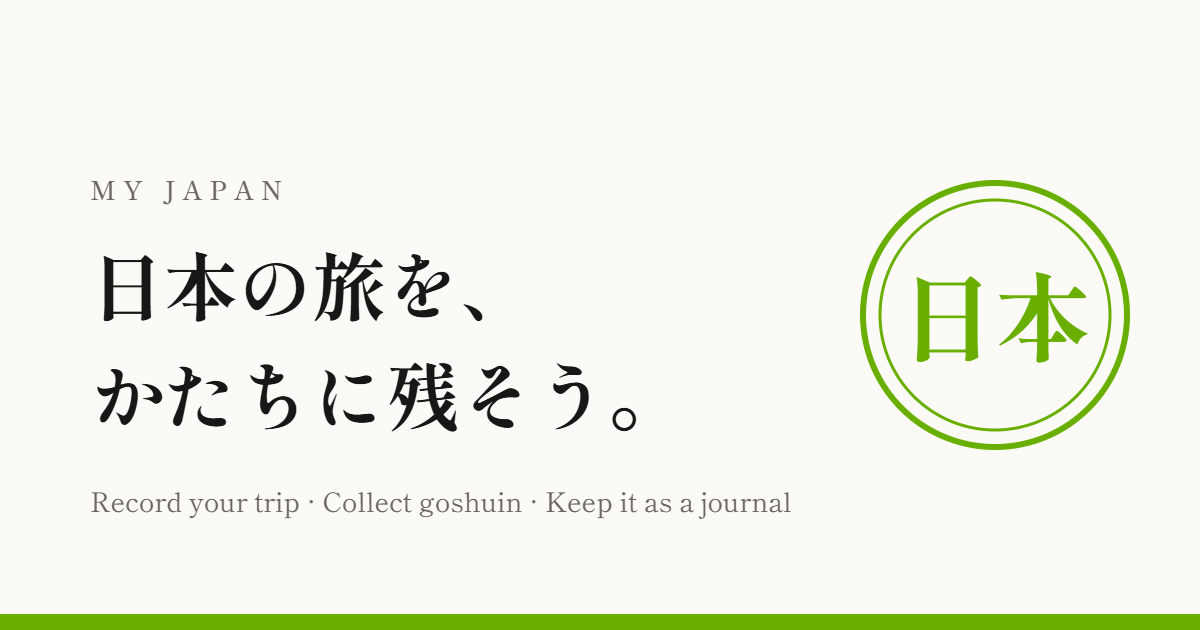
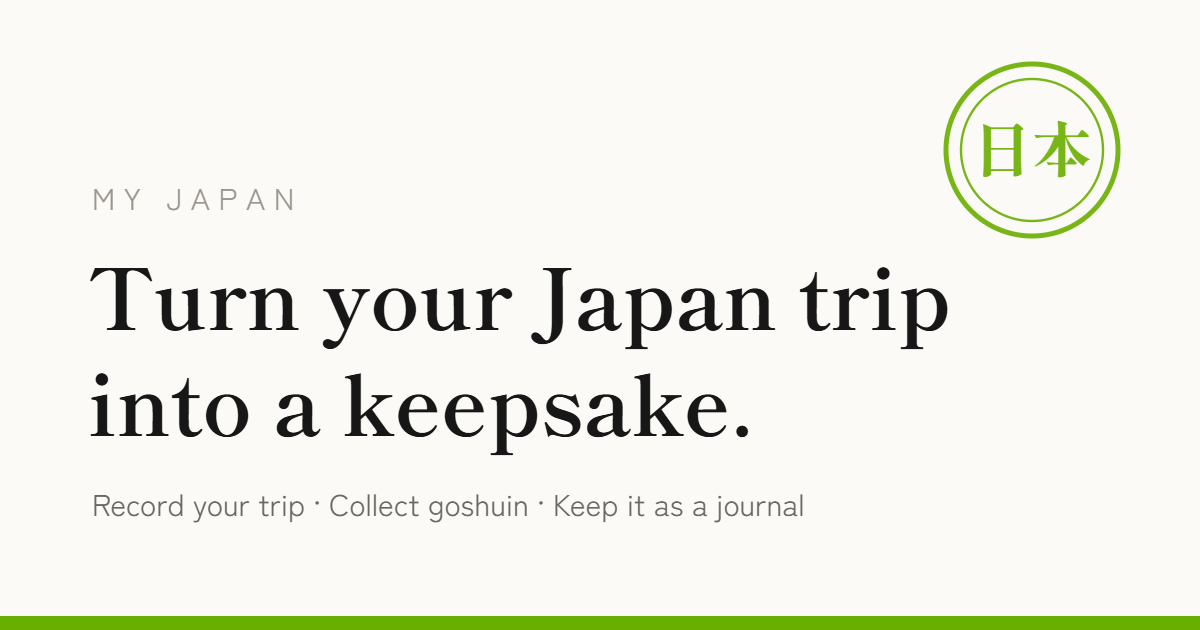
LPに浮かぶスマホ、斜めの区切りを強調、OG画像を英語化、タブバーの妥協策
■ フッター（タブバー）被り
--vh の実測方式は維持しつつ、ユーザー提案の妥協案を実行:
タブバーのラベル（文字）を全て外し、アイコンだけをバーの上半分に置いた。
下側は26px+安全領域のただの余白。スマホChromeがツールバーを重ねて
下端20px前後を隠しても、そこには何も無いので表示が壊れない。

■ LP
・「FROM TRAVELLERS IN JAPAN」の見出し横に、宙に浮いたスマホを追加。
  斜め上向き（rotateX 11°/rotateY -16°/rotateZ 5°）で、画面には
  12県が塗られた日本地図と「12 / 47」。浮遊はtransformのみで動かす
  （アニメーションが止まっても表示は壊れない）。
  LPは常に明るい紙の上なので、地図の色はテーマに寄らず固定
  （JapanSvgMap に emptyFill プロパティを追加）。
  実測: 47パス描画、塗り12県 #69AF00 / 未訪問 #EDEBE3。
・御朱印帳↔ジャーナルの斜めの区切りを 6vw → clamp(34px,8vw,84px) に。
  スマホでも斜めだと分かる角度になった（実測 -34px/クリップ34px）。

■ OGP
リンクを貼ったときに出る画像(og.png)を英語に描き直した。
見出し「Turn your Japan trip into a keepsake.」、右上に日本の印。
アプリのフォント(Shippori Mincho/Zen Kaku Gothic)で描画。

diff --git a/components/Landing.web.tsx b/components/Landing.web.tsx
@@ -21,7 +21,7 @@ import { useI18n } from '@/lib/i18n';
 
 const CSS = `
 /* シェルが 100dvh 固定なので、LP自身をスクロール領域にする */
-.lp { --ink:#14120F; --paper:#FBFAF7; --matcha:#69AF00; --shu:#C4432B; --gold:#C9A227; --slant:6vw;
+.lp { --ink:#14120F; --paper:#FBFAF7; --matcha:#69AF00; --shu:#C4432B; --gold:#C9A227; --slant:clamp(34px,8vw,84px);
   height:var(--vh,100svh); overflow-y:auto; overflow-x:hidden; -webkit-overflow-scrolling:touch;
   background:var(--paper); color:var(--ink);
   font-family:'ZenKakuGothicNew_400Regular','Zen Kaku Gothic New',system-ui,sans-serif;
@@ -119,6 +119,26 @@ const CSS = `
 /* 説明が続くので、このセクションだけ下の余白を詰める */
 .lp section.tight { padding-bottom:clamp(16px,2.4vw,32px); }
 .lp section.tight .feats { margin-top:28px; }
+
+/* --- 宙に浮くスマホ --- */
+.lp .mqHead { display:flex; align-items:center; justify-content:space-between; gap:26px; flex-wrap:wrap; }
+.lp .phoneFloat { perspective:1100px; margin:6px auto 0; }
+/* 斜めに上を向いた板。浮遊は transform だけで動かす（止まっても壊れない） */
+.lp .phone { width:216px; padding:20px 14px 16px; border-radius:30px; background:#101010;
+  box-shadow:0 34px 60px rgba(0,0,0,.30), 0 8px 18px rgba(0,0,0,.18);
+  transform:rotateX(11deg) rotateY(-16deg) rotateZ(5deg);
+  animation:phoneBob 5.2s ease-in-out infinite alternate; position:relative; }
+.lp .phone::before { content:''; position:absolute; inset:6px; border-radius:24px;
+  background:#FBFAF7; z-index:0; }
+.lp .phone > * { position:relative; z-index:1; }
+.lp .phoneNotch { width:74px; height:8px; border-radius:5px; background:#101010; margin:0 auto 12px; }
+.lp .phoneBrand { text-align:center; font-size:9px; letter-spacing:4px; color:#9B978F; margin-bottom:6px; }
+.lp .phoneMap { display:flex; justify-content:center; }
+.lp .phoneCount { text-align:center; font-size:11px; color:#6B6862; margin-top:8px; }
+.lp .phoneCount b { font-size:16px; color:#69AF00; }
+@keyframes phoneBob { from { transform:rotateX(11deg) rotateY(-16deg) rotateZ(5deg) translateY(0) }
+  to { transform:rotateX(9deg) rotateY(-13deg) rotateZ(4deg) translateY(-14px) } }
+@media (max-width:720px) { .lp .mqHead { justify-content:center; text-align:center; } }
 
 /* --- 無限マーキー --- */
 .lp .marquee { display:flex; gap:14px; width:max-content; }
@@ -238,6 +258,9 @@ export function Landing() {
   const { t } = useI18n();
   const rootRef = useRef<HTMLDivElement | null>(null);
   const heroRef = useRef<HTMLDivElement | null>(null);
+
+  // スマホのモックで塗っておく県（東京から九州へ下る旅の跡に見える12県）
+  const PHONE_VISITED = [1, 13, 14, 22, 23, 26, 27, 28, 34, 40, 43, 46];
 
   // 写真は毎回同じ並びにしたいので、決め打ちの順で切り出す
   const photos = LP_PHOTOS;
@@ -412,9 +435,24 @@ export function Landing() {
       {/* ================= 写真の流れ ================= */}
       <section style={{ paddingTop: 0, paddingBottom: 0, marginTop: -1 }}>
         <div style={{ padding: '64px 0 8px' }}>
-          <div className="wrap rv" style={{ padding: '0 22px 26px' }}>
-            <div className="eyebrow">FROM TRAVELLERS IN JAPAN</div>
-            <h2 className="mincho">{t('lp.marqueeTitle')}</h2>
+          <div className="wrap rv mqHead" style={{ padding: '0 22px 26px' }}>
+            <div>
+              <div className="eyebrow">FROM TRAVELLERS IN JAPAN</div>
+              <h2 className="mincho">{t('lp.marqueeTitle')}</h2>
+            </div>
+            {/* ぱっと見で「日本地図を塗っていくアプリ」だと分かるように、
+                宙に浮いたスマホの画面に塗りかけの日本地図を見せる */}
+            <div className="phoneFloat" aria-hidden>
+              <div className="phone">
+                <div className="phoneNotch" />
+                <div className="phoneBrand">MY JAPAN</div>
+                <div className="phoneMap">
+                  {/* LPは常に明るい紙の上なので、テーマに寄らず明所の色で固定する */}
+                  <JapanSvgMap visited={PHONE_VISITED} width={168} okinawaInset tint="#69AF00" emptyFill="#EDEBE3" />
+                </div>
+                <div className="phoneCount"><b>12</b> / 47</div>
+              </div>
+            </div>
           </div>
           <div className="mRow a"><div className="marquee">{[...rowA, ...rowA].map((p, i) => <Card p={p} i={i} key={i} />)}</div></div>
           <div className="mRow b"><div className="marquee">{[...rowB, ...rowB].map((p, i) => <Card p={p} i={i} key={i} />)}</div></div>
@@ -575,7 +613,7 @@ export function Landing() {
             <div className="eyebrow">{t('lp.quizEyebrow')}</div>
             <h3 className="mincho">{t('lp.quizTitle')}</h3>
             <div className="quizMap">
-              <JapanSvgMap visited={quizSel} onToggle={toggleQuiz} width={quizMapW()} okinawaInset />
+              <JapanSvgMap visited={quizSel} onToggle={toggleQuiz} width={quizMapW()} okinawaInset tint="#69AF00" emptyFill="#EDEBE3" />
             </div>
             <p className="quizCount">{t('lp.quizCount', { n: quizSel.size })}</p>
             <button className="cta" style={{ marginTop: 18 }} onClick={seeGoshuin}>{t('lp.quizCta')} →</button>

diff --git a/components/JapanSvgMap.tsx b/components/JapanSvgMap.tsx
@@ -46,6 +46,7 @@ export function JapanSvgMap({
   width = 320,
   tint,
   onToggle,
+  emptyFill,
   hideOkinawa = false,
   okinawaInset = false,
   intensity,
@@ -56,6 +57,8 @@ export function JapanSvgMap({
   tint?: string;
   /** 指定すると各県がタップ可能になり、prefecture_code を返す */
   onToggle?: (prefectureCode: number) => void;
+  /** 「まだ行っていない県」の塗り。常に明るい地に置くLPなどで、テーマに寄らず固定したいとき */
+  emptyFill?: string;
   /** 表示地図から沖縄を除外する */
   hideOkinawa?: boolean;
   /** 沖縄を千葉の下のインセットとして表示する（小さくOKINAWAラベルつき） */
@@ -79,11 +82,11 @@ export function JapanSvgMap({
           const isOki = slug === 'okinawa';
           if (hideOkinawa && isOki && !okinawaInset) return null;
           const on = set.has(slug);
-          let fill = on ? fillVisited : palette.mapEmpty;
+          let fill = on ? fillVisited : (emptyFill ?? palette.mapEmpty);
           if (intensity) {
             // 0 は無着色、1 に近づくほど濃く。薄い側でも見えるよう 0.12 を下限に。
             const v = intensity[PREFECTURE_ID_BY_SLUG[slug]] ?? 0;
-            fill = v > 0 ? withAlpha(fillVisited, 0.12 + v * 0.88) : palette.mapEmpty;
+            fill = v > 0 ? withAlpha(fillVisited, 0.12 + v * 0.88) : (emptyFill ?? palette.mapEmpty);
           }
           const path = (
             <Path

diff --git a/app/(tabs)/_layout.tsx b/app/(tabs)/_layout.tsx
@@ -44,19 +44,23 @@ export default function TabsLayout() {
         tabBarActiveTintColor: palette.matcha,
         // 生成り。inkFaint だと暗い地に沈んで読めなかった（実測 4.1:1）
         tabBarInactiveTintColor: palette.kinari,
+        /**
+         * ラベル（文字）は出さない。
+         * スマホのChromeはツールバーをページに重ねて描く状態があり、
+         * バーの下端は何をどう測っても最後の20px前後が欠け得る。
+         * そこで文字をやめてアイコンだけを**バーの上半分**に置き、
+         * 下側はただの余白にする。下半分が隠れても、失うものが無い。
+         */
+        tabBarShowLabel: false,
         tabBarStyle: {
           backgroundColor: palette.washi,
           borderTopColor: palette.rule,
           borderTopWidth: hairline,
           elevation: 0,
-          height: 68 + insets.bottom,
-          paddingTop: 8,
-          paddingBottom: 12 + insets.bottom,
-        },
-        tabBarLabelStyle: {
-          fontFamily: fonts.gothicMedium,
-          fontSize: 10,
-          letterSpacing: 1,
+          height: 72 + insets.bottom,
+          paddingTop: 10,
+          // 下側を厚めに空けておく（ここが欠けても表示は壊れない）
+          paddingBottom: 26 + insets.bottom,
         },
       }}
     >
